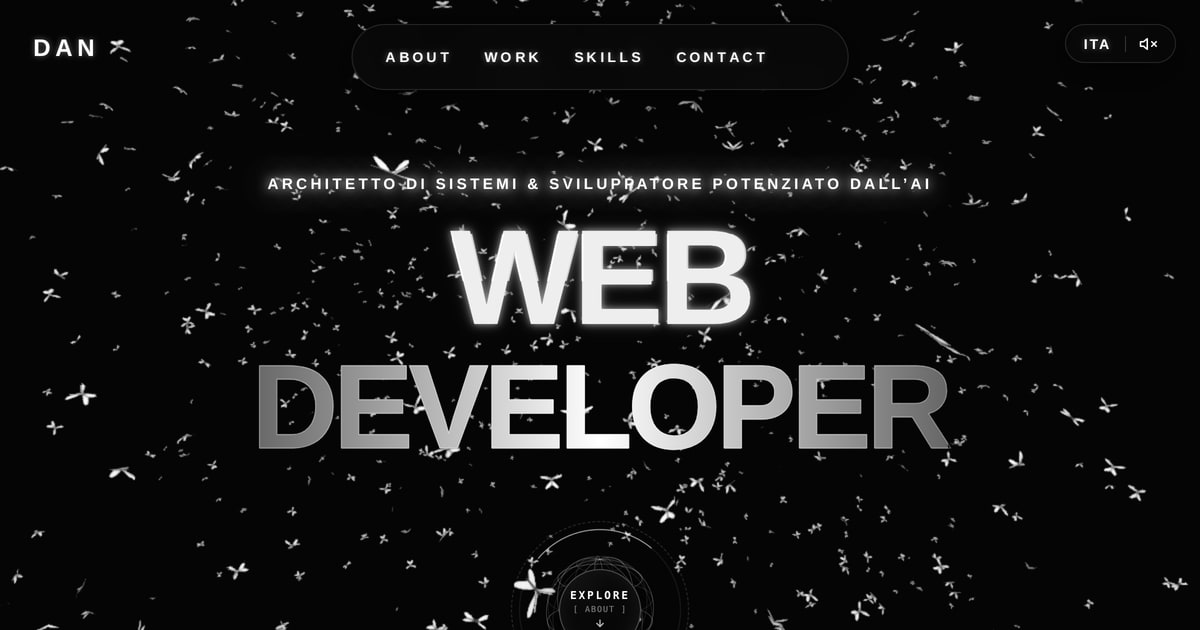
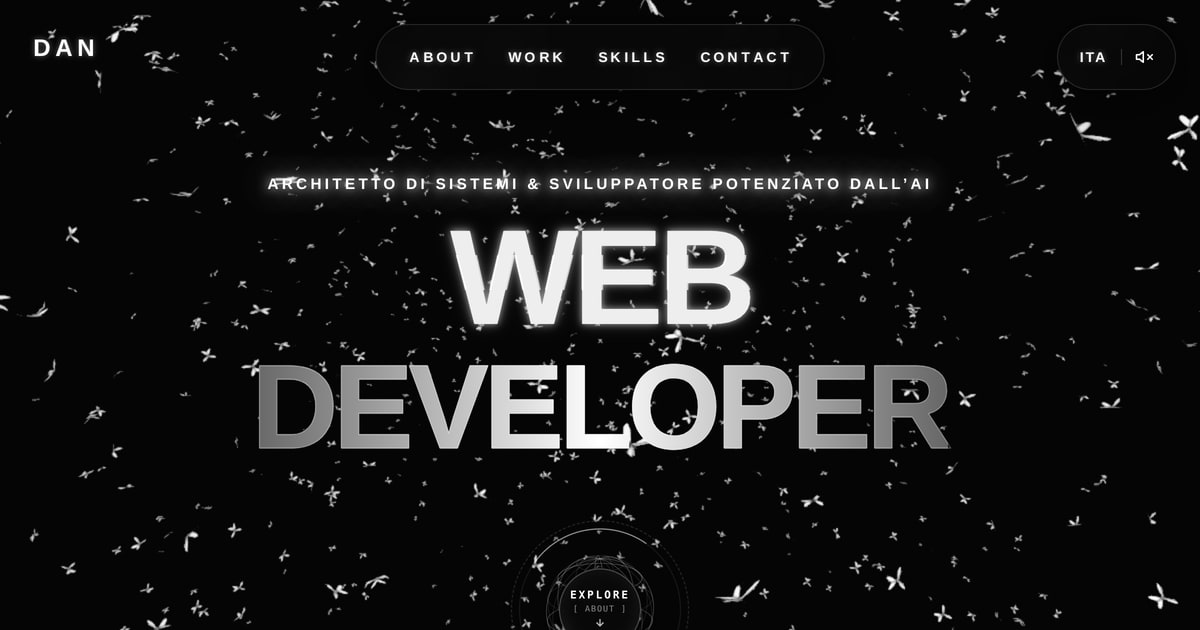
Line the controls pill up with the nav dock
Two fixes to the top bar.

Height: the dock and the pill were 66px and 39px, so they read as two
unrelated objects rather than two halves of one bar. Both now derive from a
shared --dock-inner-height token, the pill adding the same 0.25rem of
vertical padding and 1px border the dock has. Measured: 66px each.

Right-hand gap: moving the volume button out left .nav-actions in the dock
holding only mobile-only children. Hidden children collapse to zero width
but a zero-width flex item still collects the row's gap, so .nav-inner kept
reserving its 3rem gap and the dock carried a 48px hole past CONTACT. The
container is now display:none above the breakpoint and flex below it. The
dock lost exactly those 48px (496.8px -> 448.8px) and, being centred with a
translate rather than by margins, stayed centred on the viewport.

Also drops a duplicate .nav-actions rule that has been in this file since
before this branch; the surviving copy is the one carrying the fix.

Claude-Session: https://claude.ai/code/session_01Uv8rVAj2wuqoYoFQCsW4Ho

diff --git a/src/styles/components/navbar.css b/src/styles/components/navbar.css
@@ -124,11 +124,14 @@ nav.dock-mode.nav-hidden,
 nav.dock-mode .nav-inner {
   padding: 0 1.5rem;
   gap: 3rem;
-  height: 3.5rem;
+  height: var(--dock-inner-height);
 }
 
+  /* Everything this holds is mobile-only, so above the breakpoint it is not
+     just empty but absent: a zero-width flex item still collects the row's
+     gap, which left a 48px hole on the right of the dock. */
   .nav-actions {
-    display: flex;
+    display: none;
     align-items: center;
     gap: 1.5rem;
   }
@@ -174,12 +177,6 @@ nav.dock-mode .nav-inner {
     transform: translateY(-4px) rotate(-45deg);
   }
 
-  .nav-actions {
-    display: flex;
-    align-items: center;
-    gap: 1.5rem;
-  }
-
 @media (max-width: 768px) {
   .nav-links {
     display: none !important;
@@ -208,6 +205,7 @@ nav.dock-mode .nav-inner {
   }
 
   .nav-actions {
+    display: flex;
     gap: 1rem;
   }
 }
@@ -357,7 +355,8 @@ nav.dock-mode .nav-inner {
   display: inline-flex;
   align-items: center;
   gap: 0.25rem;
-  padding: 0.25rem 0.5rem;
+  height: calc(var(--dock-inner-height) + 0.5rem + 2px);
+  padding: 0.25rem 0.75rem;
   background: rgba(8, 8, 8, 0.75);
   backdrop-filter: blur(20px);
   -webkit-backdrop-filter: blur(20px);

diff --git a/src/styles/tokens.css b/src/styles/tokens.css
@@ -12,6 +12,11 @@
      pulls only the weights those two need. */
   --font-display: 'Inter', sans-serif;
   --font-mono: 'Space Mono', monospace;
+
+  /* The floating nav dock and the controls pill are two halves of the same
+     bar and have to line up. Both are built from this inner height plus
+     0.25rem of vertical padding and a 1px border. */
+  --dock-inner-height: 3.5rem;
 }
 
 /* Reset & Base Styles */
